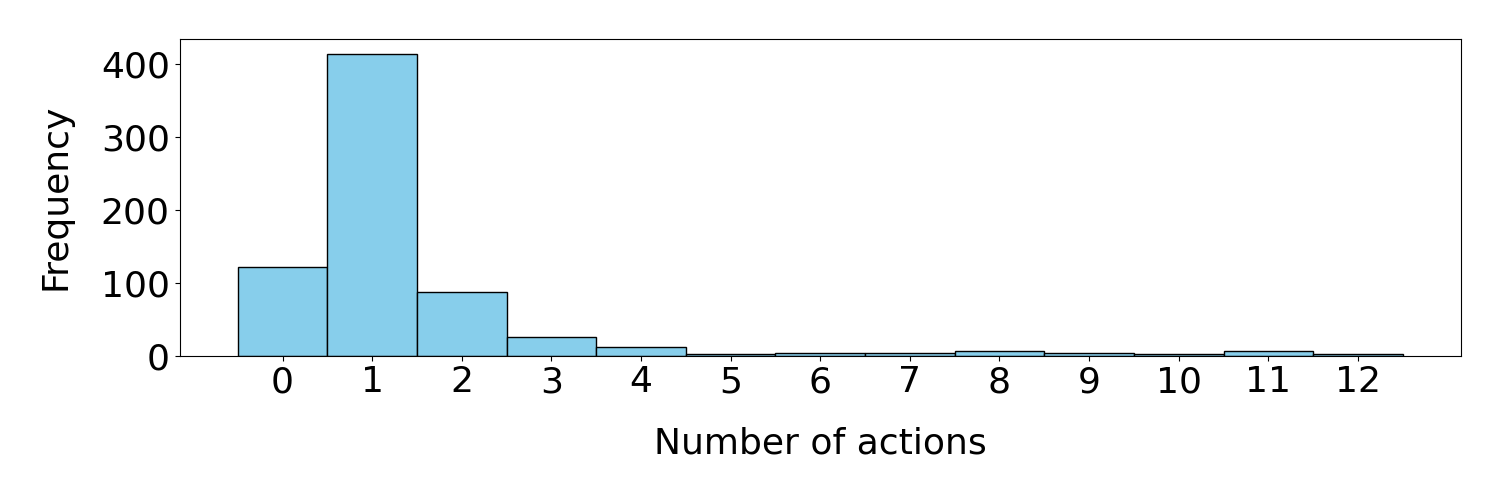
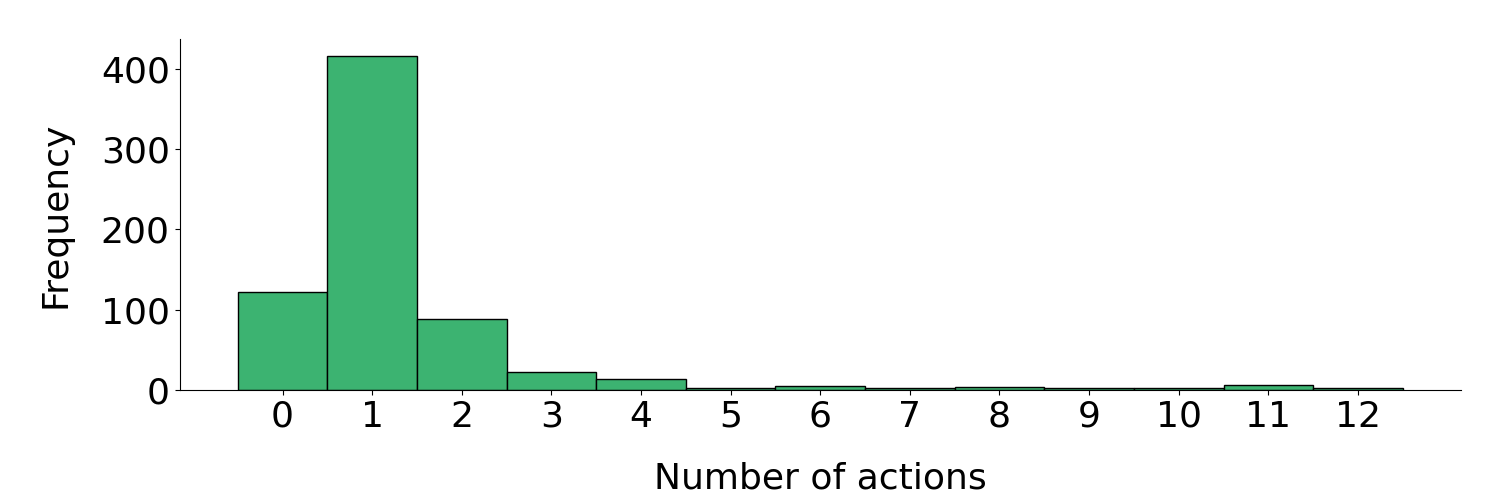
more plot updates and accuracy breakdowns

diff --git a/scripts/evals/overall_metrics.py b/scripts/evals/overall_metrics.py
@@ -62,6 +62,9 @@ if __name__ == "__main__":
         total_incorrect_no_actions = 0
         total_correct_non_zero_actions = 0
         total_incorrect_non_zero_actions = 0
+        total_correct_two_or_more_actions = 0
+        total_incorrect_two_or_more_actions = 0
+        total_context_window_errors = 0
         for tool in tools:
             results = get_latest_results_from_dir(results_root_dir, model, tool, args.print_errors, all_tools_in_prompt)
             if results is None:
@@ -75,6 +78,9 @@ if __name__ == "__main__":
                     incorrect_no_actions,
                     correct_non_zero_actions,
                     incorrect_non_zero_actions,
+                    correct_two_or_more_actions,
+                    incorrect_two_or_more_actions,
+                    num_context_window_errors,
                 ) = results
             total_correct += correct
             total_incorrect += incorrect
@@ -83,6 +89,9 @@ if __name__ == "__main__":
             total_incorrect_no_actions += incorrect_no_actions
             total_correct_non_zero_actions += correct_non_zero_actions
             total_incorrect_non_zero_actions += incorrect_non_zero_actions
+            total_correct_two_or_more_actions += correct_two_or_more_actions
+            total_incorrect_two_or_more_actions += incorrect_two_or_more_actions
+            total_context_window_errors += num_context_window_errors
         if total_correct + total_incorrect == 0:
             print(f"No results found for {model}.")
             continue
@@ -100,4 +109,10 @@ if __name__ == "__main__":
         )
         print(
             f"Accuracy with non-zero actions (%): {total_correct_non_zero_actions / (total_correct_non_zero_actions + total_incorrect_non_zero_actions) * 100} ({total_correct_non_zero_actions} / {total_correct_non_zero_actions + total_incorrect_non_zero_actions})"
+        )
+        print(
+            f"Accuracy with two or more actions (%): {total_correct_two_or_more_actions / (total_correct_two_or_more_actions + total_incorrect_two_or_more_actions) * 100} ({total_correct_two_or_more_actions} / {total_correct_two_or_more_actions + total_incorrect_two_or_more_actions})"
+        )
+        print(
+            f"Context window errors (%): {total_context_window_errors / (total_correct + total_incorrect) * 100} ({total_context_window_errors} / {total_correct + total_incorrect})"
         )

diff --git a/scripts/plotting/plot_error_breakdown.py b/scripts/plotting/plot_error_breakdown.py
@@ -9,7 +9,7 @@ incorrrect_with_side_effects = 0.25652
 incorrect_without_side_effects = 1 - correct - incorrrect_with_side_effects
 
 # Plot a pie chart with adjusted title spacing
-labels = ["Correct", "Side\nEffects", "No Side\nEffects"]
+labels = ["Correct", "Incorrect with \n Side Effects", "Incorrect without\nSide Effects"]
 sizes = [correct, incorrrect_with_side_effects, incorrect_without_side_effects]
 colors = ["gold", "lightcoral", "lightskyblue"]
 
@@ -53,8 +53,8 @@ other = total - failed_to_follow_react - failed_to_retrive_email - used_search_i
 labels = ["Failed to\nfollow ReAct", "Wrong\nemail", "Used search\nincorrectly", "Other"]
 
 sizes = [failed_to_follow_react, failed_to_retrive_email, used_search_incorrectly, other]
-# new set of colors that are all different from the previous ones
-colors = ["lightgreen", "darkorange", "lightpink", "lightgrey"]
+# new set of colors that are all shades of blue
+colors = ["lightblue", "skyblue", "lightcyan", "paleturquoise"]
 axs[1].pie(
     sizes,
     labels=labels,
@@ -115,7 +115,8 @@ sizes = [
     other,
 ]
 
-colors = ["darkorange", "lightyellow", "violet", "lightcyan", "greenyellow", "lightgrey"]
+# new set of colors that are all shades of red
+colors = ["lightcoral", "salmon", "tomato", "darksalmon", "mistyrose", "lightsalmon"]
 axs[2].pie(
     sizes,
     labels=labels,

diff --git a/src/evals/utils.py b/src/evals/utils.py
@@ -595,6 +595,9 @@ def get_latest_results_from_dir(results_root_dir, model, tool, print_errors=Fals
         num_incorrect_no_actions = len(df[df["ground_truth"].apply(len) == 0]) - num_correct_no_actions
         num_correct_non_zero_actions = df[df["ground_truth"].apply(len) > 0]["correct"].sum()
         num_incorrect_non_zero_actions = len(df[df["ground_truth"].apply(len) > 0]) - num_correct_non_zero_actions
+        num_correct_two_or_more_actions = df[df["ground_truth"].apply(len) > 1]["correct"].sum()
+        num_incorrect_two_or_more_actions = len(df[df["ground_truth"].apply(len) > 1]) - num_correct_two_or_more_actions
+        num_context_window_errors = len(df[df["error"] == "Context window exceeded"])
         return (
             num_correct,
             num_incorrect,
@@ -603,6 +606,9 @@ def get_latest_results_from_dir(results_root_dir, model, tool, print_errors=Fals
             num_incorrect_no_actions,
             num_correct_non_zero_actions,
             num_incorrect_non_zero_actions,
+            num_correct_two_or_more_actions,
+            num_incorrect_two_or_more_actions,
+            num_context_window_errors,
         )
 
 

diff --git a/scripts/plotting/plot_answer_action_lengths.py b/scripts/plotting/plot_answer_action_lengths.py
@@ -24,7 +24,9 @@ plt.rcParams.update({"font.size": 26})
 
 # Plotting the histogram of the length of the answer list
 plt.figure(figsize=(15, 5))
-plt.hist(answer_lengths, bins=range(0, max(answer_lengths) + 2), align="left", color="skyblue", edgecolor="black")
+plt.hist(
+    answer_lengths, bins=range(0, max(answer_lengths) + 2), align="left", color="mediumseagreen", edgecolor="black"
+)
 plt.xlabel("Number of actions", labelpad=20)
 plt.ylabel("Frequency", labelpad=20)
 
@@ -33,4 +35,11 @@ plt.xticks(range(0, max(answer_lengths) + 1))
 plt.yticks(range(0, 420, 100))
 # tight_layout() adjusts the plot to fit into the figure area
 plt.tight_layout()
+# no margin at the bottom
+plt.subplots_adjust(bottom=0.22)
+
+# no border around top and right
+plt.gca().spines["top"].set_visible(False)
+plt.gca().spines["right"].set_visible(False)
+
 plt.savefig("data/plots/answer_action_lengths.png")
